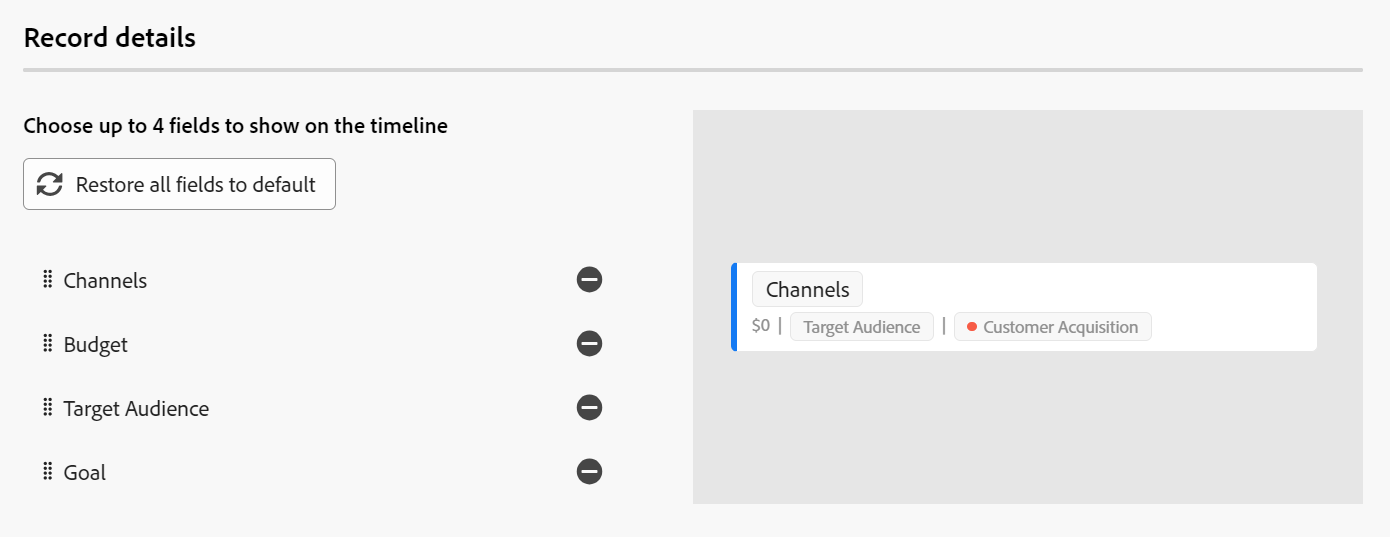
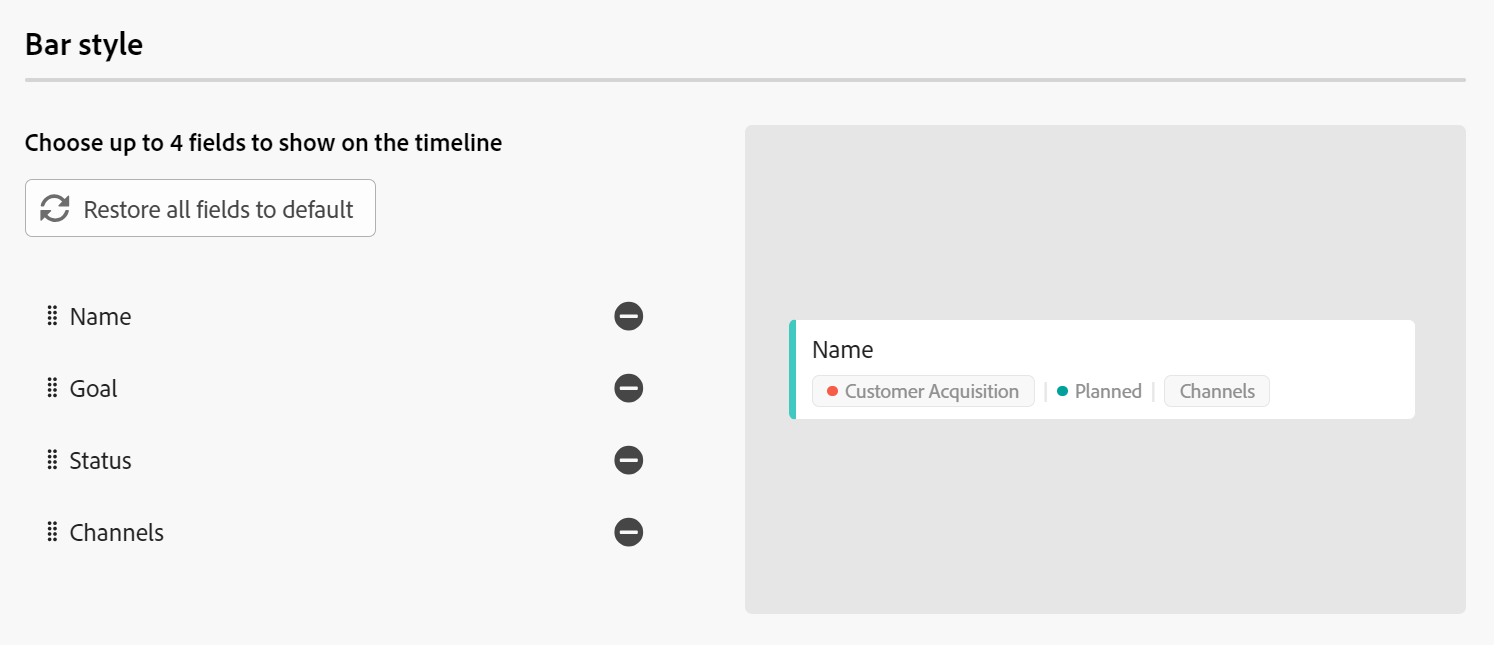
commit-aw-19-oct

diff --git a/help/quicksilver/maestro/views/manage-the-timeline-view.md b/help/quicksilver/maestro/views/manage-the-timeline-view.md
@@ -150,7 +150,7 @@ To manage a timeline view:
 
 ### Add filters
 
-Filters help you reduce the amount of information displayed on the screen.
+You can reduce the amount of information displayed on the screen by using filters.
 
 Consider the following when working with filters in the timeline view: 
 
@@ -160,13 +160,13 @@ Consider the following when working with filters in the timeline view:
 
 * The filters are unique to the view that you select. Two timeline views of the same record type can have different filters applied to them. Two users looking at the same timeline view see the same filter that is currently applied. 
 
-* You cannot name the filters you build and apply to a timeline view.
+* You cannot name the filters you build for a timeline view.
 
-* Removing filters removes them from anyone accessing the same record type as you and uses the same view you use.
+* Removing filters removes them from anyone accessing the same record type as you and who displays the same view as you do. 
 
-Adding filters in the timeline view is identical to adding filters in the table view. 
+* Adding filters in the timeline view is identical to adding filters in the table view. 
 
-For more information, see the "Add filters" section in the article [Manage the table view](../views/manage-the-table-view.md). 
+    For more information, see the "Add filters" section in the article [Manage the table view](../views/manage-the-table-view.md). 
 
 ### Add grouping
 
@@ -174,45 +174,49 @@ For more information, see the "Add filters" section in the article [Manage the t
 
 Adding groupings in the timeline view is identical to adding filters in the table view. 
 
-For more information, see the "Add filters" section in the article [Manage the table view](../views/manage-the-table-view.md). -->
-
+For more information, see the "Add groupings" section in the article [Manage the table view](../views/manage-the-table-view.md). BUT: you would need to create this section for the Table view and move the steps below (and maybe edit them) to the Manage the table view article, in this case. OR ... link from that section to this article?! -->
 
 You can group records by similar information when applying  a grouping to a view.
 
 Consider the following when working with groupings in the timeline view:
 
-* You can apply groupings both in the table and timeline views. The groupings of the table view are independent from those in the timeline view of the same record type. 
+<!--not yet: * You can apply groupings both in the table and timeline views. The groupings of the table view are independent from those in the timeline view of the same record type. -->
 * You can apply 3 levels of grouping in a Maestro view. The records are grouped in the order of groupings that you select. 
 * You can apply up to 4 levels of grouping when using the API. 
+* The groupings are unique to the view that you select. Two timeline views of the same record type can have different groupings applied to them. Two users looking at the same timeline view see the same grouping that is currently applied. 
+
+* You cannot name the groupings you build for a timeline view.
+
+* Removing groupings removes them from anyone accessing the same record type as you and who displays the same view as you do. 
 
 To add a grouping:
 
-1. Create a timeline view, as described in the article [Manage record views](../views/manage-record-views.md). 
-1. Click **Grouping**.
+1. Create a timeline view for a record type, as described in the article [Manage record views](../views/manage-record-views.md). 
+1. Click **Grouping** in the upper-right corner of the timeline view.
 
     ![](assets/grouping-ui-timeline-view.png)
 
-1. Click one of the suggested fields, or click **Choose a different field** and search for a different field, then click it when it displays in the list. 
+1. Click one of the suggested fields, or click **Choose a different field**, search for a different field, then click it when it displays in the list. 
 
     >[!TIP]
     >
     >You cannot select linked fields. 
 
-    The grouping is applied automatically to the timeline and records display inside the grouping box. The number of items in a grouping displays on the grouping line. 
+    The grouping is applied automatically to the timeline and records display inside the grouping box. 
 
     <!-- add a step that you can rearrange the groupings here, when this will be possible-->
     
 1. (Optional) Repeat the above steps to add up to 3 groupings. 
 
-    The number of groupings applied displays to the left of the Grouping icon in the upper-right corner of the toolbar.
+    The number of fields selected for the grouping displays next to the Grouping icon. 
 
     ![](assets/grouping-applied-in-timeline-view.png)
 
-1. (Optional) Click the **x** icon to the right of a grouping to remove the grouping
+1. (Optional) Click the **x** icon to the right of a field selected for the grouping to remove the grouping
 
     Or
 
-    Click **Clear all** to remove all groupings.  
+    Click **Clear all** to remove all fields.  
 
 1. Click outside the **Group records by** box to close it. 
 
@@ -226,20 +230,19 @@ this is not possible right now; if this is the same functionality as the table v
 
 ### Edit the timeline view settings {#edit-the-timeline-view-settings}
 
-Update the timeline view settings to indicate what information displays in the timeline section of the view. 
+Update the timeline view settings to indicate what and how information displays in the timeline section of the view. 
 
-1. Create a timeline view, as described in the article [Manage record views](../views/manage-record-views.md). 
+1. Create a timeline view for a record type, as described in the article [Manage record views](../views/manage-record-views.md). 
 1. Click **Settings**. 
 1. Click **Date and time** in the left panel, then select a **Start date** and an **End date** to display on the timeline. You can choose the default Start and End dates, or you can choose any date field available. The bars representing the records start on the date that you indicate for the Start date and end on the date corresponding with the End date. 
 
     >[!NOTE]
     >
-    >    Records that have no values for the Start or the End dates or have a Start date later than the End date do not display in the timeline view.
+    >Records that have no values for the Start or the End dates or have a Start date later than the End date do not display in the timeline view.
 
+1. Click **Bar style** in the left panel, to indicate what fields you want to display on the record bars. 
 
-1. Click **Record details** to indicate what fields you want to display on the record bards. 
-
-    The Name field is selected by default.
+    The Name field is selected by default. <!--adjust this when the primary field is released??-->
 
 1. Click **Add field** to add up to 4 fields to the record bars.
 1. Click inside the **Search fields** box, and click the field you want to add. 
@@ -253,6 +256,41 @@ Update the timeline view settings to indicate what information displays in the t
     A preview of what the bars will look like on the timeline displays on the right.
 
     ![](assets/record-details-panel-timeline-settings-with-preview.png)
+
+1. Click **Color** in the left panel, to customize the colors of the records and groupings in the timeline. 
+
+    ![](assets/color-tab-timeline-view.png)
+
+1. (Conditional and optional) If you added a grouping to the timeline view, select from the following options to set a color for the grouping in the **Set grouping color** section:
+
+    * **Default (gray)**: The color of the groupings is set to gray. This is the default. 
+    * **Field values**: The color of the groupings matches the color of the field you group by. 
+    You can match the color of the groupings only to fields with color-coded options.
+    
+    For example, multi-select or single-select fields can have color-coded options. 
+
+    If you group by fields without color-coded options, the grouping color remains gray.
+
+    >[!TIP]
+    >
+    >If you did not add groupings to the timeline view, this section does not display.
+
+1. In the **Set record color** section, select from the following options to set a color for the records: 
+
+    * **Record type**: The color of the records match the color of the record type you selected. This is the default option. 
+    * **Field values**: The color of the records matches the color of a field that you specify. Continue with step 10. <!--ensure this stays accurate-->
+    * **Grouping**: The color of the records matches the color that you indicated for the groupings. This option is dimmed when you have no groupings applied to the timeline view. 
+    * **None**: Records displays in a white bar. 
+
+1. (Conditional) If you selected **Field values** for the record colors, select a field from the **Match the record color to** drop-down menu. 
+
+    ![](assets/field-selector-drop-down-menu-timeline-view.png)
+
+    Only fields with color-coded options display in the drop-down menu.
+    
+    For example, multi-select or single-select fields can have color-coded options.  
+
+    If you do not have a field with color-coded options for the selected record type, this option is dimmed.
 
 1. Click **Save**.
 

diff --git a/help/quicksilver/workfront-basics/updating-work-items-and-viewing-updates/updates-tab-overview.md b/help/quicksilver/workfront-basics/updating-work-items-and-viewing-updates/updates-tab-overview.md
@@ -127,8 +127,6 @@ The information in the Updates section is organized differently, depending on wh
 
 For information about what features are available for the new commenting experience and for what objects, see [New commenting experience](../../product-announcements/betas/new-commenting-experience-beta/unified-commenting-experience.md).
 
-<!--update screen shot and maybe save it under a new name??? with the August 17 release - also make sure you have some people tagged, similar to what we show in the old UI-->
-
 <span class="preview">![](assets/updates-tab-after-unified-experience-for-tasks.png)</span>
 
 * The Updates section displays information in the following tabs in the new commenting experience: 
@@ -205,8 +203,6 @@ For information about what features are available for the new commenting experie
 
   *You can add and view updates to cards in the Board areas when you enable the Comments and System Activity sections on a card. For more information, see [Add an ad hoc card to a board](../../agile/get-started-with-boards/add-card-to-board.md). 
   -->
-
-
 
 ## Updates that also appear on higher-rank objects
 
@@ -319,18 +315,13 @@ Adobe Workfront administrators and group administrators can log in as other user
 
 For information, see [Log in as another user](../../administration-and-setup/add-users/create-and-manage-users/log-in-as-another-user.md).
 
-Any comments made on behalf of another user are indicated on the comment.
+Considering the following when logging in as another user and adding comments:
 
-<!--remove the note below when we release this back to the new commenting-->
+* Any comments made on behalf of another user are indicated on the comment.
 
->[!NOTE]
->
->When using the new commenting experience, the comment is added as the user who logged in as another user and there is no indication that they are adding a comment on someone else's behalf. 
->
->For example, if a Workfront administrator logs in as another user, the user associated with the comment is the Workfront administrator. For more information, see [New commenting experience](../../product-announcements/betas/new-commenting-experience-beta/unified-commenting-experience.md). 
+* A group administrator can comment on behalf of another person but cannot delete that comment. Only an Adobe Workfront administrator can delete a comment that they made on behalf of another user.
 
-
-A group administrator can comment on behalf of another person but cannot delete that comment. Only an Adobe Workfront administrator can delete a comment that they made on behalf of another user.
+* A Workfront or group administrator can only edit a comment they added on behalf of another user only when they log out as the user and log back in as themselves. 
 
 ## View system updates on work items with the Journal Entry report
 

diff --git a/help/quicksilver/product-announcements/betas/new-commenting-experience-beta/unified-commenting-experience.md b/help/quicksilver/product-announcements/betas/new-commenting-experience-beta/unified-commenting-experience.md
@@ -19,14 +19,10 @@ An update to the commenting experience in Adobe Workfront is currently in develo
 
 The new commenting experience will slowly become available for all the objects with an Updates section in Workfront, and later it will expand to other Adobe Experience Cloud applications.
 
-<!--  ****************UNCOMMENT THIS SECTION WHEN THE FAQs ARTICLE IS LIVE: 
-
 For additional resources for the new commenting experience, also see the following articles:
 
 * [New commenting experience release activity](../new-commenting-experience-beta/new-commenting-beta-experience-release-activity.md)
 * [New commenting experience FAQs](../new-commenting-experience-beta/new-commenting-faq.md.draft)
-
--->
 
 ## Features
 
@@ -44,7 +40,7 @@ The following features have been removed from the new experience:
 * Comment on a system update
 * Ability to edit status, condition, commit date while commenting
 * Edit custom form
-* The "on behalf of < user  name >" information when a Workfront or group administrator logs in as another user and adds a comment on their behalf. <!-- Replace this bullet with this, when re bring this back: The "on behalf of < user name >" information when a Workfront or group administrator logs in as another user and adds a comment on their behalf was originally removed. It has been reinstated in October 2023.-->
+* The "on behalf of < user name >" information when a Workfront or group administrator logs in as another user and adds a comment on their behalf was originally removed. It has been reinstated on October 19, 2023.
 * The "Ask for approval" option when you tag people while adding a comment to a document. 
 
 >[!NOTE]
@@ -375,34 +371,36 @@ The following table illustrates the features that will be available in the new c
    <td> 
    </td>
   </tr>
-  <tr>
-   <td>Resolve comments 
-   </td>
-   <td> 
-   </td>
-   <td> 
-   </td>
-   <td>✓ 
-   </td>
-   <td>Q3, 2023 
-   </td>
-   <td>✓ 
-   </td>
-  </tr>
-  <tr>
+    <tr>
    <td>Search in comments 
    </td>
    <td> 
    </td>
    <td> 
    </td>
-   <td>✓ 
+   <td> 
    </td>
-   <td>Q3, 2023 
+   <td>Q1, 2024 
    </td>
    <td>✓ 
    </td>
   </tr>
+
+<tr>
+   <td>Copy and paste images in a comment
+   </td>
+   <td> 
+   </td>
+   <td> 
+   </td>
+   <td> 
+   </td>
+   <td>Q1, 2024 
+   </td>
+   <td>✓ 
+   </td>
+  </tr>
+
 <tr>
    <td>Edit custom form 
    </td>
@@ -450,7 +448,7 @@ The following table illustrates the features that will be available in the new c
    </td>
    <td> ✓
    </td>
-   <td> 
+   <td> ✓
    </td>
    <td> 
    </td>

diff --git a/help/quicksilver/product-announcements/betas/new-commenting-experience-beta/new-commenting-beta-experience-release-activity.md b/help/quicksilver/product-announcements/betas/new-commenting-experience-beta/new-commenting-beta-experience-release-activity.md
@@ -59,23 +59,23 @@ The following is a planned timeline with key milestones for the release of the n
     >
     >    Iterations will continue to have the legacy commenting experience. The new commenting experience will not be available for iterations. 
 
+* First quarter of 2024 (January 2024):
+
+    * The option to switch back to the legacy commenting stream will be removed and the new commenting stream will become the only experience for all objects, with the exception of Iterations. 
+
 ## Released features
 
 The following section contains a list of features that have been added after the original 23.2 release, starting with the ones released most recently. 
 
 The following information refers to the release activity on a weekly basis of the features included in the new commenting beta experience. This article lists new features that are added and issues that are resolved for the new commenting experience.
 
-<!--CHECK THE DATES BELOW, BEFORE POSTING: 
+### Week of October 16, 2023
 
-### Week of October 9, 2023
-
-#### Add back the "on behalf of <user name>" information when commenting on behalf of other users
+#### Add the "on behalf of < user name >" information when commenting while logged in as another user
 
 While redesigning the commenting experience, we had removed the "on behalf of < user name >" indicator when a Workfront or group administrator added comments while logged in as another user. This information has now been restored. 
 
-Preview and production for all customers: October 13, 2023. 
-
--->
+Preview and production for all customers: October 19, 2023. 
 
 ### Week of September 11, 2023
 

diff --git a/help/quicksilver/workfront-basics/navigate-workfront/workfront-navigation/workfront-terminology-glossary.md b/help/quicksilver/workfront-basics/navigate-workfront/workfront-navigation/workfront-terminology-glossary.md
@@ -2072,7 +2072,8 @@ The designated full time equivalency for users. A full-time user should have 100
   </tr> 
   <tr> 
    <td>[!UICONTROL Status Update]</td> 
-   <td> <p>This field shows the most recent status update that users have provided in the '[!UICONTROL Update Status]' field. Comments made on status updates are not displayed in the [!UICONTROL Status Update] column.</p> <p>To show the '[!UICONTROL New],' '[!UICONTROL In Process],' and '[!UICONTROL Complete]' statuses, use the [!UICONTROL Status] column.</p> <p>Comments made on status updates are not displayed in the [!UICONTROL Status Update] column.</p> <p>For more information on statuses, see the article <a href="../../../manage-work/projects/updating-work-in-a-project/update-task-status.md" class="MCXref xref">Update task status</a>.</p> </td> 
+   <td> <p>This field shows the most recent status update that object owners have provided in the '[!UICONTROL Update Status]' field. For projects, this means comments made by the Project Owner, and for tasks and issues, this means comments made by the assignees.</p> 
+   <p> Comments made on status updates are not displayed in the [!UICONTROL Status Update] column.</p> <p>To show the '[!UICONTROL New],' '[!UICONTROL In Process],' and '[!UICONTROL Complete]' statuses, use the [!UICONTROL Status] column.</p> <p>For more information on statuses, see the article <a href="../../../manage-work/projects/updating-work-in-a-project/update-task-status.md" class="MCXref xref">Update task status</a>.</p> </td> 
   </tr> 
   <tr> 
    <td>[!UICONTROL Statuses]</td> 

diff --git a/help/quicksilver/administration-and-setup/add-users/create-and-manage-users/log-in-as-another-user.md b/help/quicksilver/administration-and-setup/add-users/create-and-manage-users/log-in-as-another-user.md
@@ -99,7 +99,7 @@ You must have the following to perform the steps in this article:
 1. Click **Log in.**
 
    <!--
-   <p data-mc-conditions="QuicksilverOrClassic.Draft mode">Might come in a future story:</p>
+   <p> Might come in a future story:</p>
    -->
 
    <!--
@@ -141,15 +141,6 @@ When you log in as another user, the last login date is modified for that user t
 When you log in to Workfront as another user and perform an action, Workfront clearly indicates that any action you perform is made by you on behalf of the user who you are logged in as.
 
 For example, if you comment on an item while logged in as another user, a statement indicates that the comment was made by you on behalf of the user.
-
-<!--remove the note below when we bring this back to Prod: -->
-
->[!NOTE]
->
->When using the new commenting experience, the comment is added as the user who logged in as another user and there is no indication that they are adding a comment on someone else's behalf. 
->
->For example, if a Workfront administrator logs in as another user, the user associated with the comment is the Workfront administrator. For more information, see [New commenting experience](../../../product-announcements/betas/new-commenting-experience-beta/unified-commenting-experience.md). 
-
 
 ### View audit information {#view-audit-information}
 

diff --git a/help/quicksilver/maestro/release-activity.md b/help/quicksilver/maestro/release-activity.md
@@ -46,6 +46,34 @@ Preview and production: October 16, 2023
 We have added Rich Text format controls for Paragraph-type fields. You can format your paragraph fields using Rich Text either in the Table view of a record type, or in the Details page of a record. For more information, see [Edit records](../maestro/records/edit-records.md). 
 
 
+### Record and grouping color-coding for the Timeline view 
+
+Preview and production: October 19, 2023
+
+You can now color-code the record bars and the groupings in the Timeline view.  
+
+The following are options for the colors you can choose to display for record bars and groupings in the Timeline view: 
+
+* Groupings can match the following colors:  
+
+    * Gray (the default) 
+
+    * The color of the field that you group by 
+
+* Bars can match the following colors: 
+
+    * The color of the record type 
+
+    * The color of a field that you select 
+
+    * The color of the grouping 
+
+    * No color (the default) 
+
+When matching colors to a certain field, you can select only fields with color-coded options.  
+
+For more information, see [Manage the timeline view](../maestro/views/manage-the-timeline-view.md). 
+
 ## Week of October 9, 2023
 
 ### Search in table view  

diff --git a/help/quicksilver/maestro/views/manage-record-views.md b/help/quicksilver/maestro/views/manage-record-views.md
@@ -138,13 +138,11 @@ The following table shows the similarities and differences between the table and
 | Filter records                                       | ✓          | ✓             |
 | Group records                                      |           | ✓             |
 | Sort records                                       | ✓          |              |
+| Color-code records                     |           | ✓              |
+ | Color-code groupings                     |           | ✓              |
 
 <!--| Sort groupings                                                        | ✓          | ✓             |-->
-
  <!--| Display a limited number of fields as columns, by default                      | ✓          |               |-->
-
- <!--| Color-code records                     |           | ✓              |-->
- <!--| Color-code groupings                     |           | ✓              |-->
 
 ## Create or edit views {#create-or-edit-views}
 
